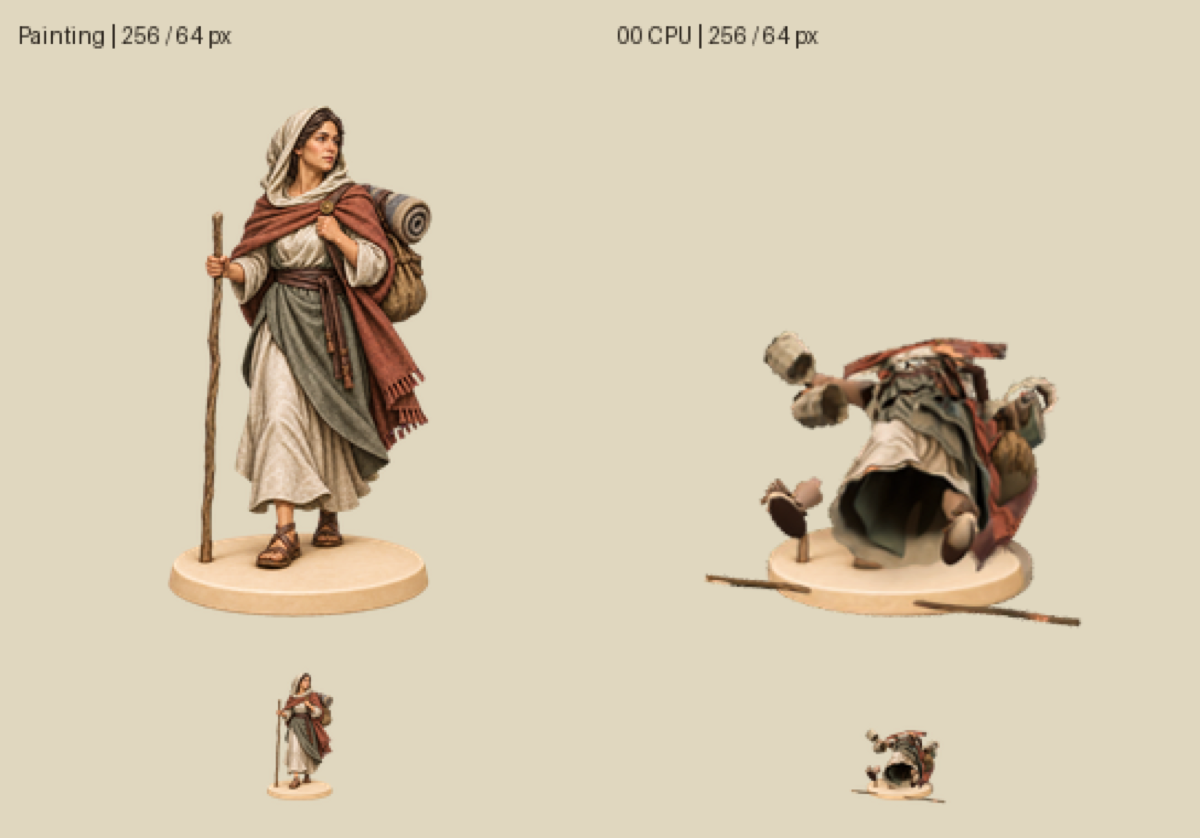
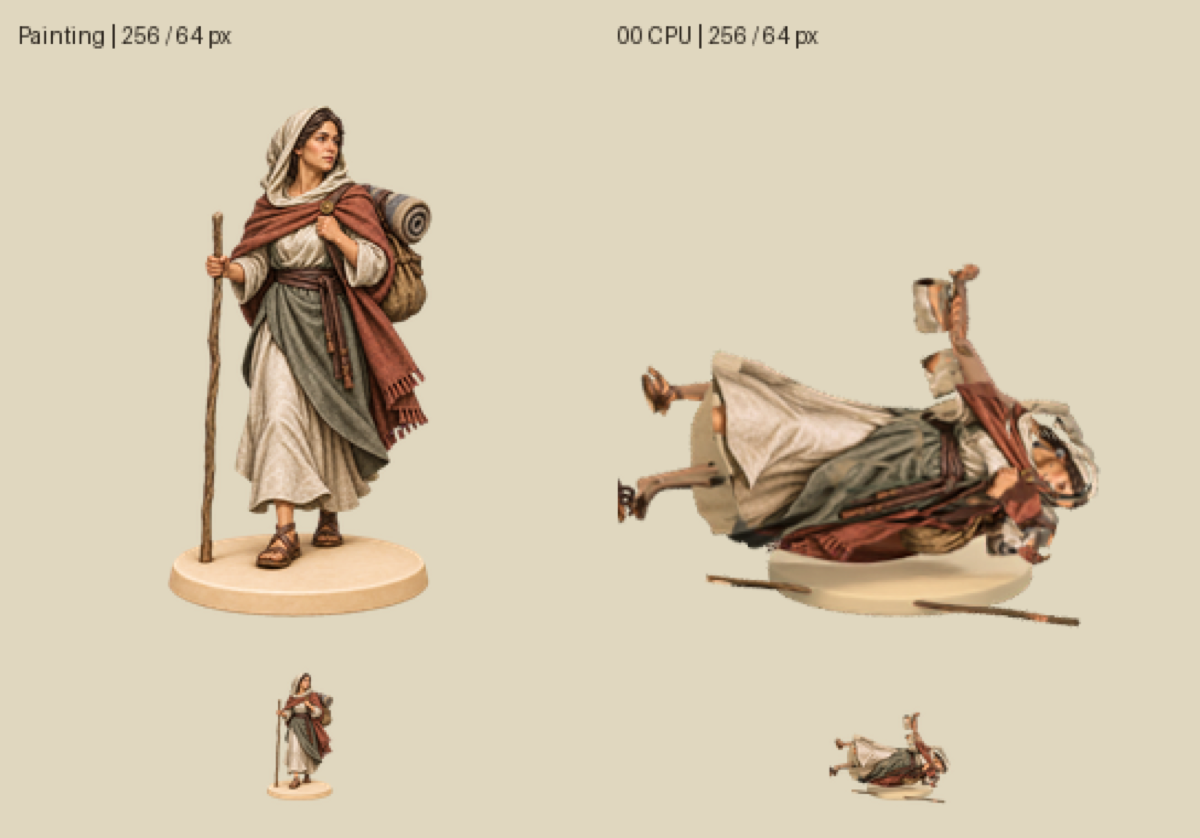
3D spearman interim review images

Changed region(s): [[0.4933, 0.3103, 0.925, 0.7446], [0.6783, 0.8377, 0.8017, 0.9618]]

diff --git a/tools/art/anim3d/review/spartan-hoplite-log.md b/tools/art/anim3d/review/spartan-hoplite-log.md
@@ -126,3 +126,7 @@ Baked clip move
 Baked clip attack
 Baked clip hit
 Baked clip death
+Review b: 512px CYCLES/GPU, 64 samples; 3 actual frames.
+Review c: 512px CYCLES/GPU, 64 samples; 1 actual frames.
+Review d: 512px CYCLES/GPU, 64 samples; 4 actual frames.
+Review e-idle: 512px CYCLES/GPU, 64 samples; 8 actual frames.
